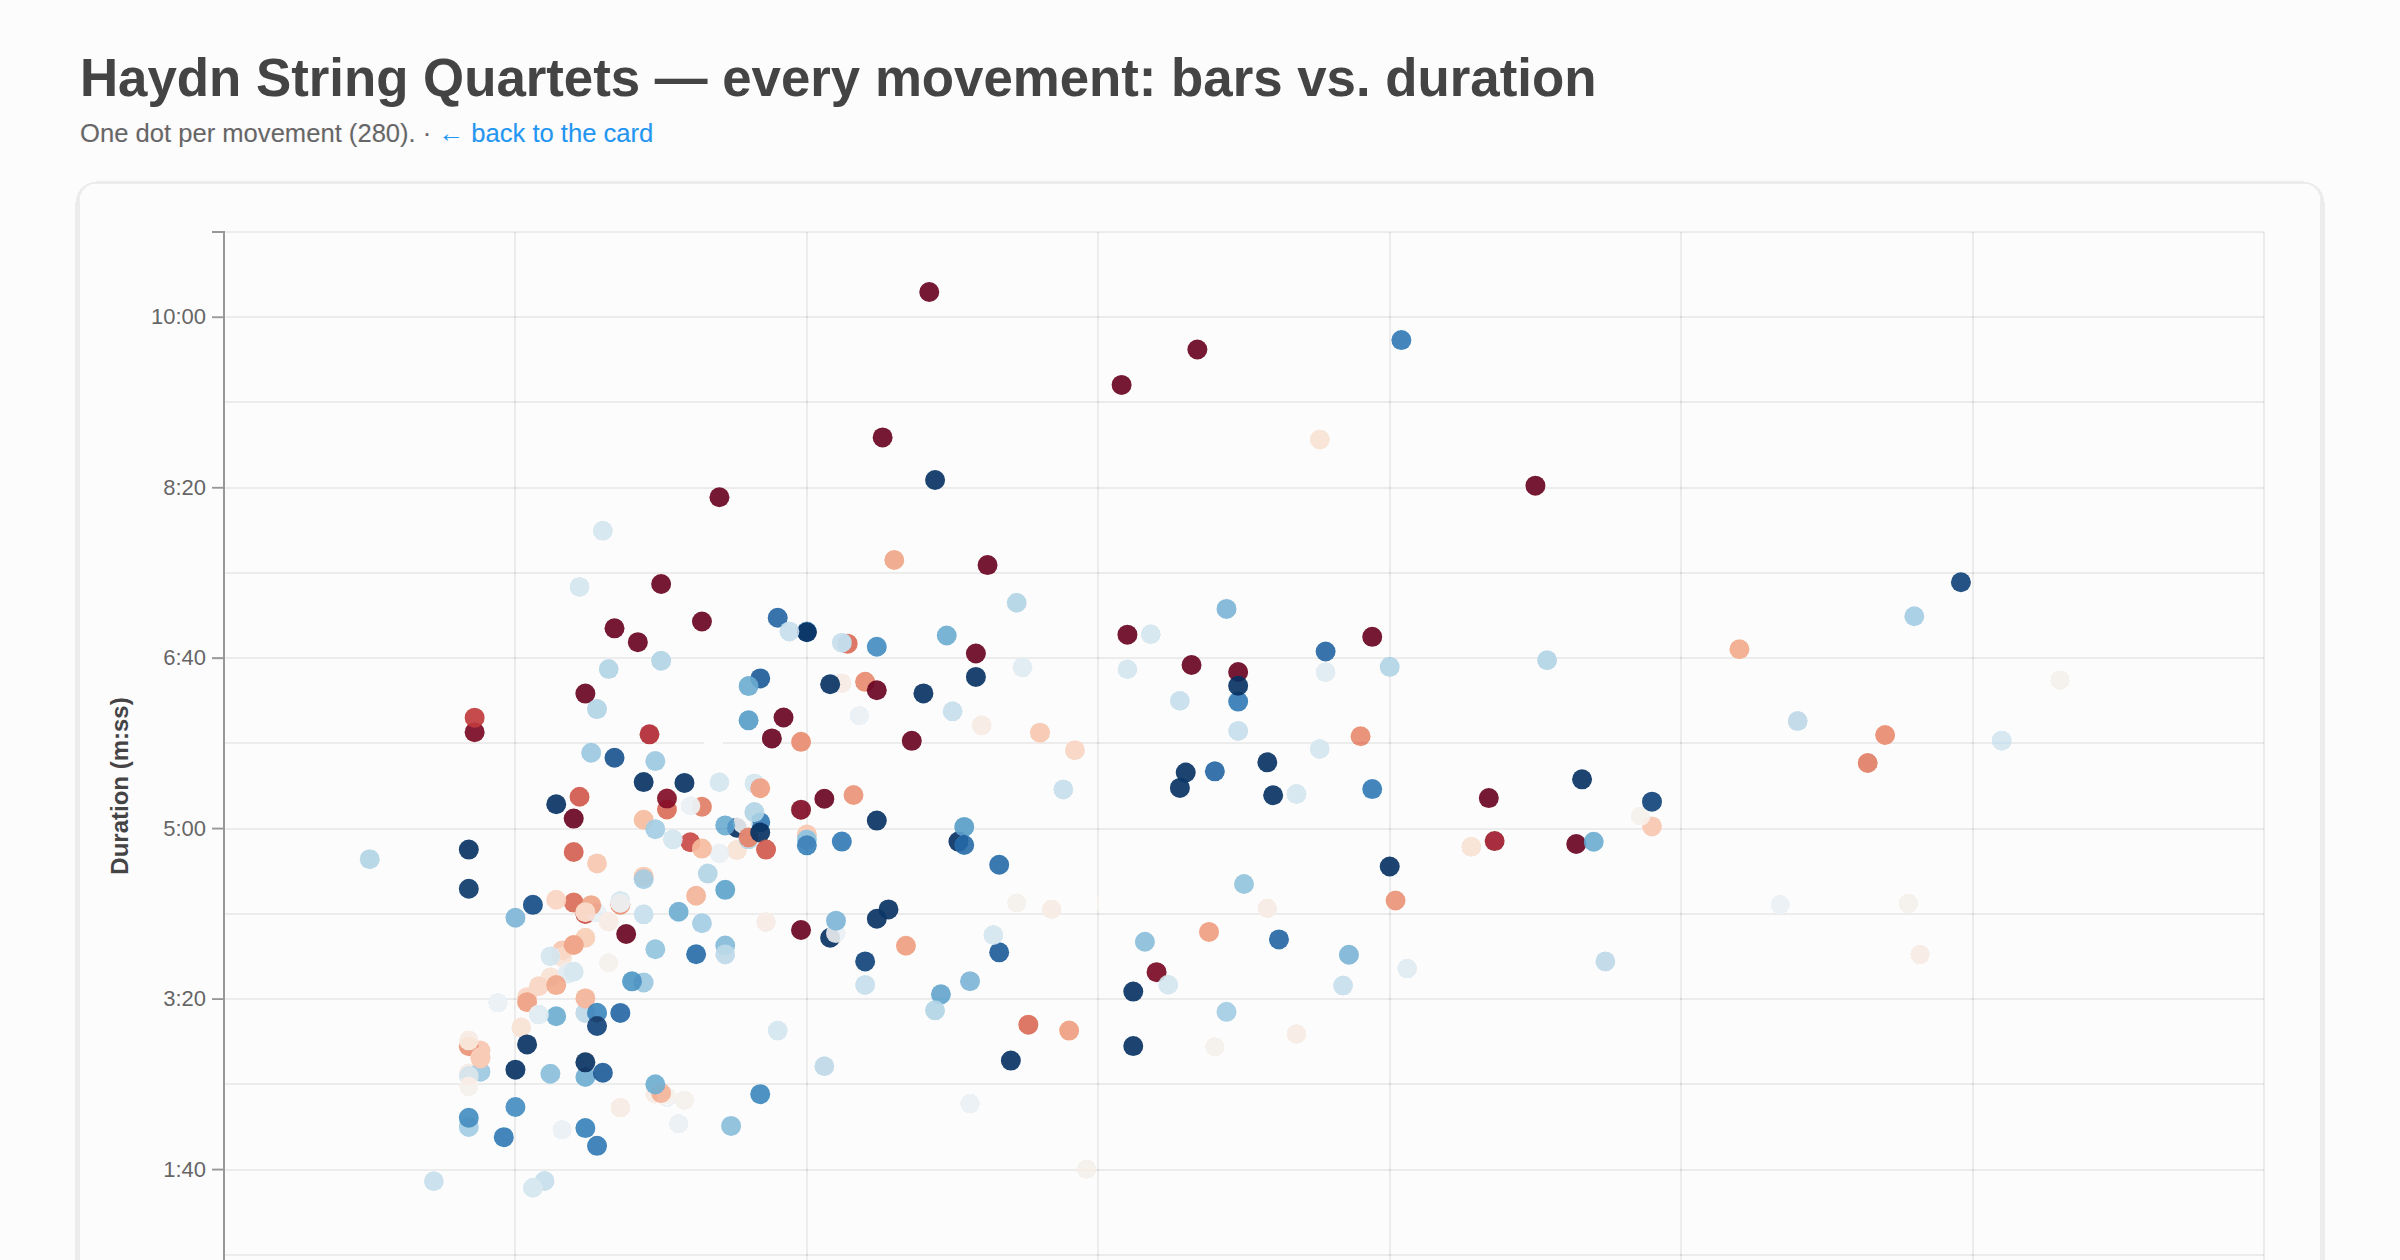
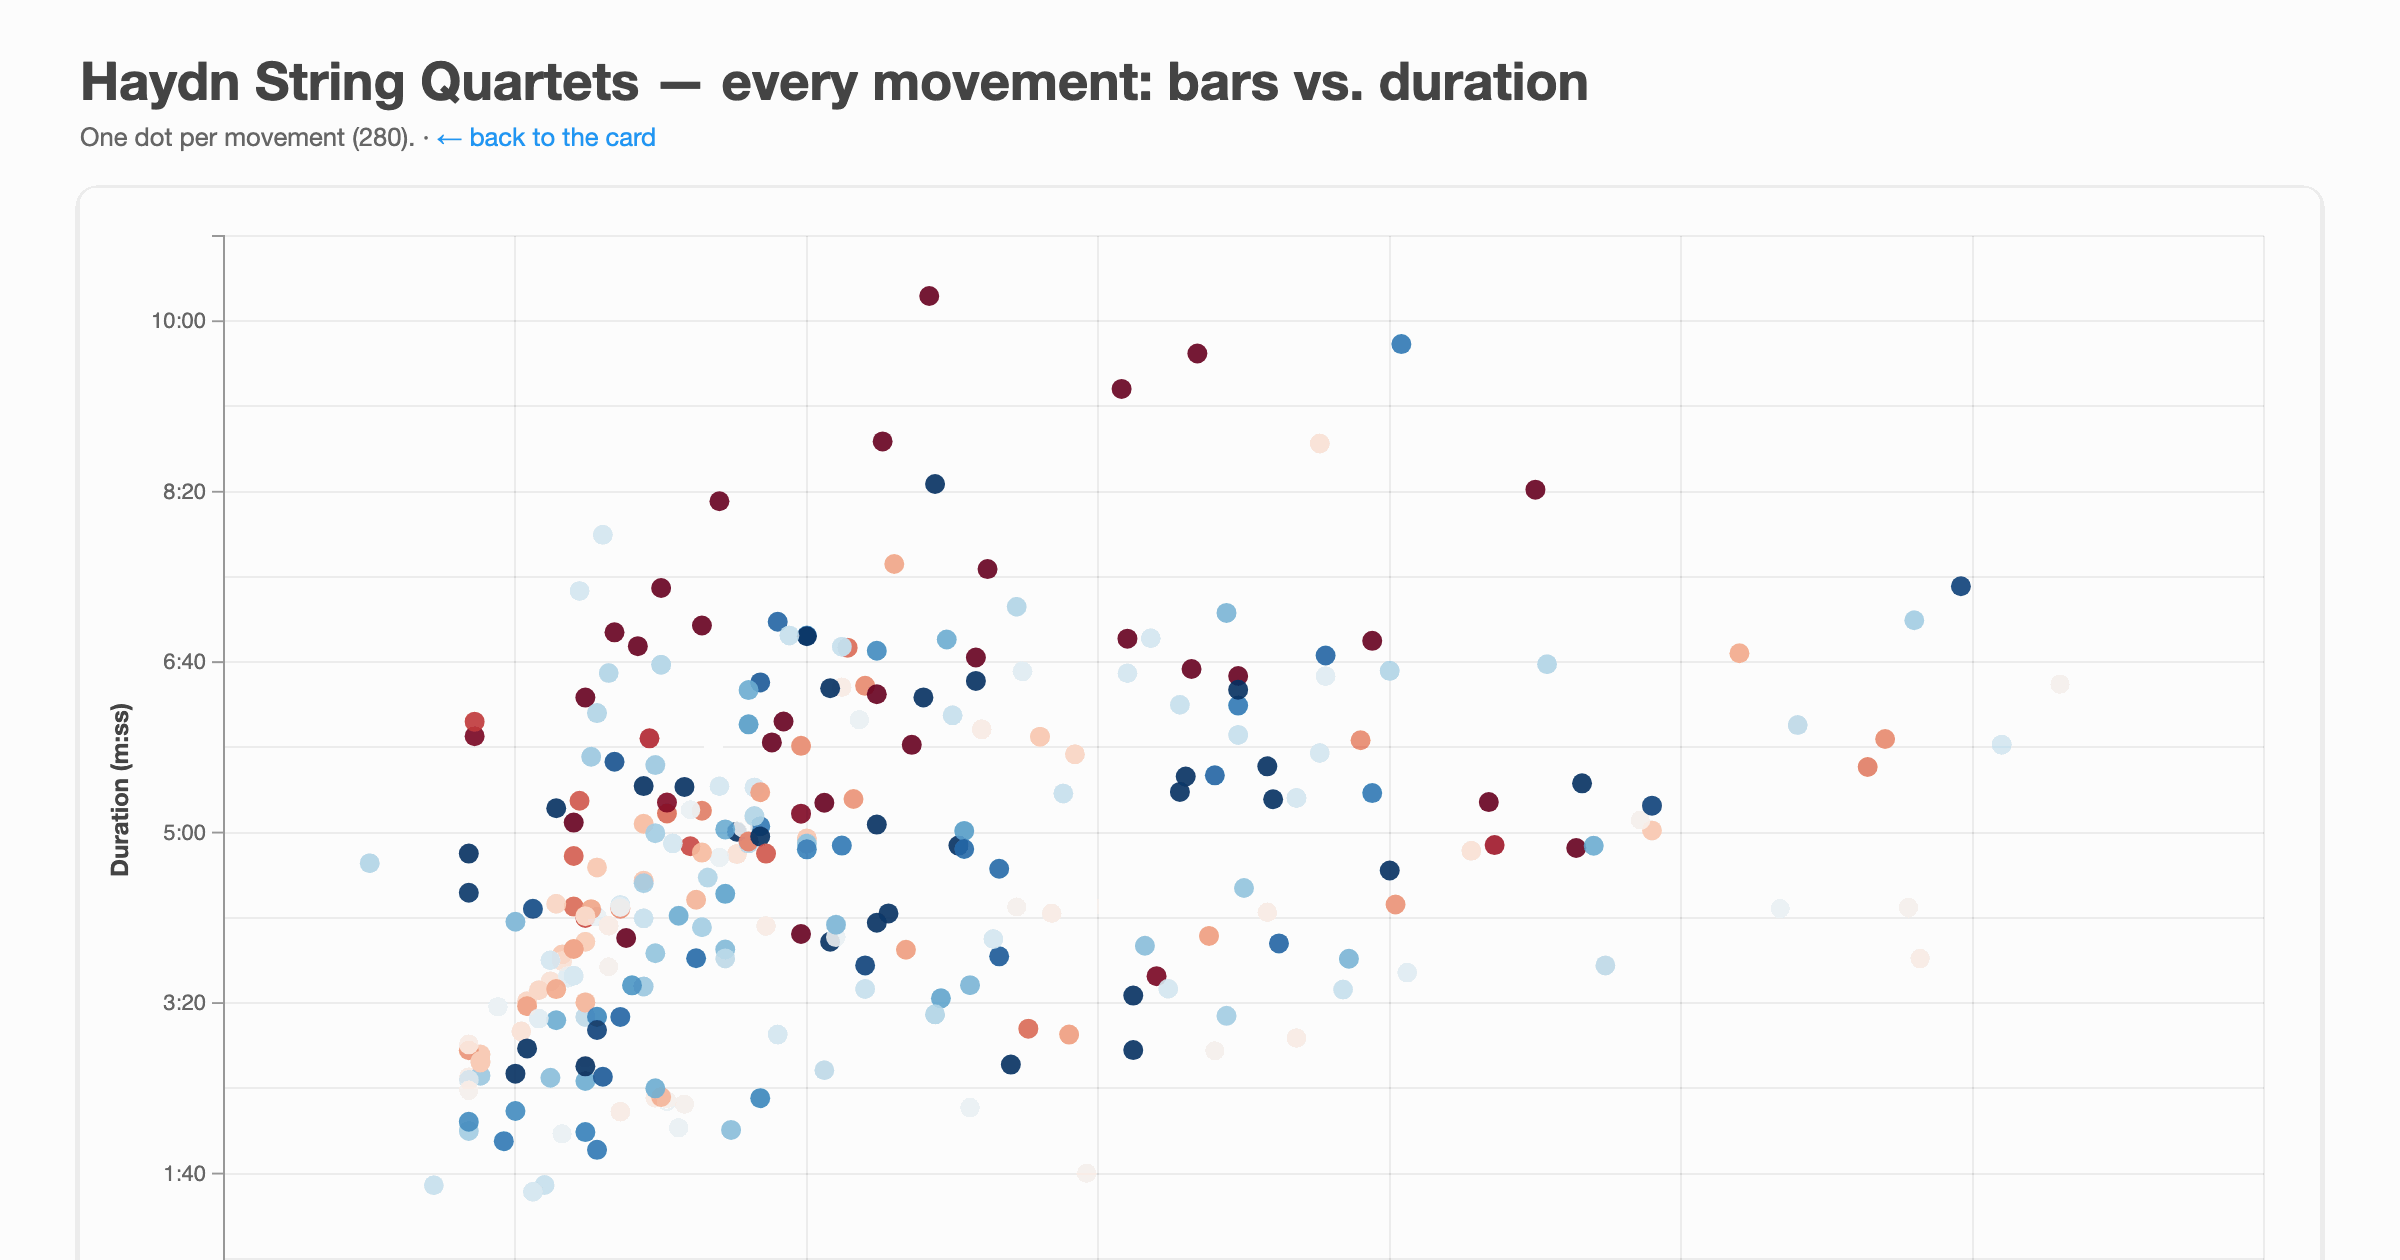
Fix mobile card scrolling past content bottom
The phone layout shrinks the card table with transform: scale(0.35). That
transform was on <body>, and a scaled element still reserves its full pre-scale
size for scrolling — so the page scrolled ~1440px past the visible content.

Move the transform onto .container, give <body> overflow:hidden to clip the
leftover phantom box, and add fitMobileHeight() to pin <body>'s height to the
container's on-screen (scaled) height (re-run on load/resize/orientationchange).
Verified in emulated iPhone: scrollHeight now equals the content bottom (was 3x).

Bump SW cache to haydn-v2 so the fix reaches installed home-screen copies.

diff --git a/web/index.html b/web/index.html
@@ -171,7 +171,7 @@
         }
 
         /* Reserve the notch / home-indicator safe area on the (untransformed) html
-           element, so the mobile body's scale(0.35) hack below is left untouched.
+           element, so the mobile .container scale(0.35) hack below is left untouched.
            Insets are 0 on desktop and in headless capture, so nothing else moves. */
         html {
             box-sizing: border-box;
@@ -565,13 +565,24 @@
                 --nickname-height: 15px;
                 --bottom-section-height: 20px;
             }
+            /* The card table is far wider than a phone, so scale it down to fit.
+               The transform lives on .container (NOT body) so body can clip the
+               leftover: a scaled element still reserves its FULL pre-scale box for
+               scrolling, and that phantom height is what let the page scroll past
+               the content bottom. body{overflow:hidden} clips it, and
+               fitMobileHeight() (in the script below) pins body's height to the
+               container's on-screen (scaled) height so the page ends exactly at
+               the content. */
             body {
                 margin: 0;
+                overflow: hidden;
+            }
+            .container {
+                width: calc(100% / 0.35);
                 transform: scale(0.35);
                 transform-origin: 0 0;
-                width: calc(100% / 0.35);
+                align-items: center;
             }
-            .container { width: auto; align-items: center; }
             .header-group { container-type: normal; }
             h1 { font-size: 2.5em; }
             .legend { font-size: 1em; }
@@ -599,6 +610,23 @@
 
     <script>
         const HAYDN_BIRTH_YEAR = 1732;
+
+        // On phones the card table is scaled down (see the mobile @media rule). A
+        // CSS-transformed element still reserves its full PRE-scale size for
+        // scrolling, so without this the page scrolls well past the visible
+        // content. Pin <body>'s height to the container's actual on-screen
+        // (scaled) height; body{overflow:hidden} then clips the phantom box.
+        // No-op on desktop, where nothing is scaled (height cleared to auto).
+        const MOBILE_MQ = window.matchMedia('(hover: none) and (pointer: coarse) and (max-width: 800px)');
+        function fitMobileHeight() {
+            const c = document.querySelector('.container');
+            if (!c) return;
+            document.body.style.height = MOBILE_MQ.matches
+                ? Math.ceil(c.getBoundingClientRect().height) + 'px'
+                : '';
+        }
+        window.addEventListener('resize', fitMobileHeight);
+        window.addEventListener('orientationchange', () => setTimeout(fitMobileHeight, 200));
 
         // Normally fetch opera.json. If a build/screenshot step has inlined the
         // data as window.OPERA_DATA, use that (lets the page render from a
@@ -896,6 +924,11 @@
                     }
                 });
             });
+
+            // Content is now laid out — size the mobile viewport to it (and again
+            // after a beat, in case web-font/reflow nudges the height).
+            requestAnimationFrame(fitMobileHeight);
+            setTimeout(fitMobileHeight, 300);
         }).catch(error => {
             console.error('Error loading opera.json:', error);
             d3.select('#visualization').append('p')

diff --git a/web/sw.js b/web/sw.js
@@ -9,7 +9,7 @@
 // waiting for a SW swap; falls back to cache offline); images stay cache-first for speed — a V
 // bump refreshes them. Cross-origin (GoatCounter, Spotify links) passes straight through.
 
-const V = "haydn-v1";   // <-- BUMP ON EVERY SHELL CHANGE
+const V = "haydn-v2";   // <-- BUMP ON EVERY SHELL CHANGE
 const SHELL = [
   "./", "./index.html", "./scatter.html",
   "./opera.json", "./d3.v7.min.js", "./app.js", "./manifest.json",